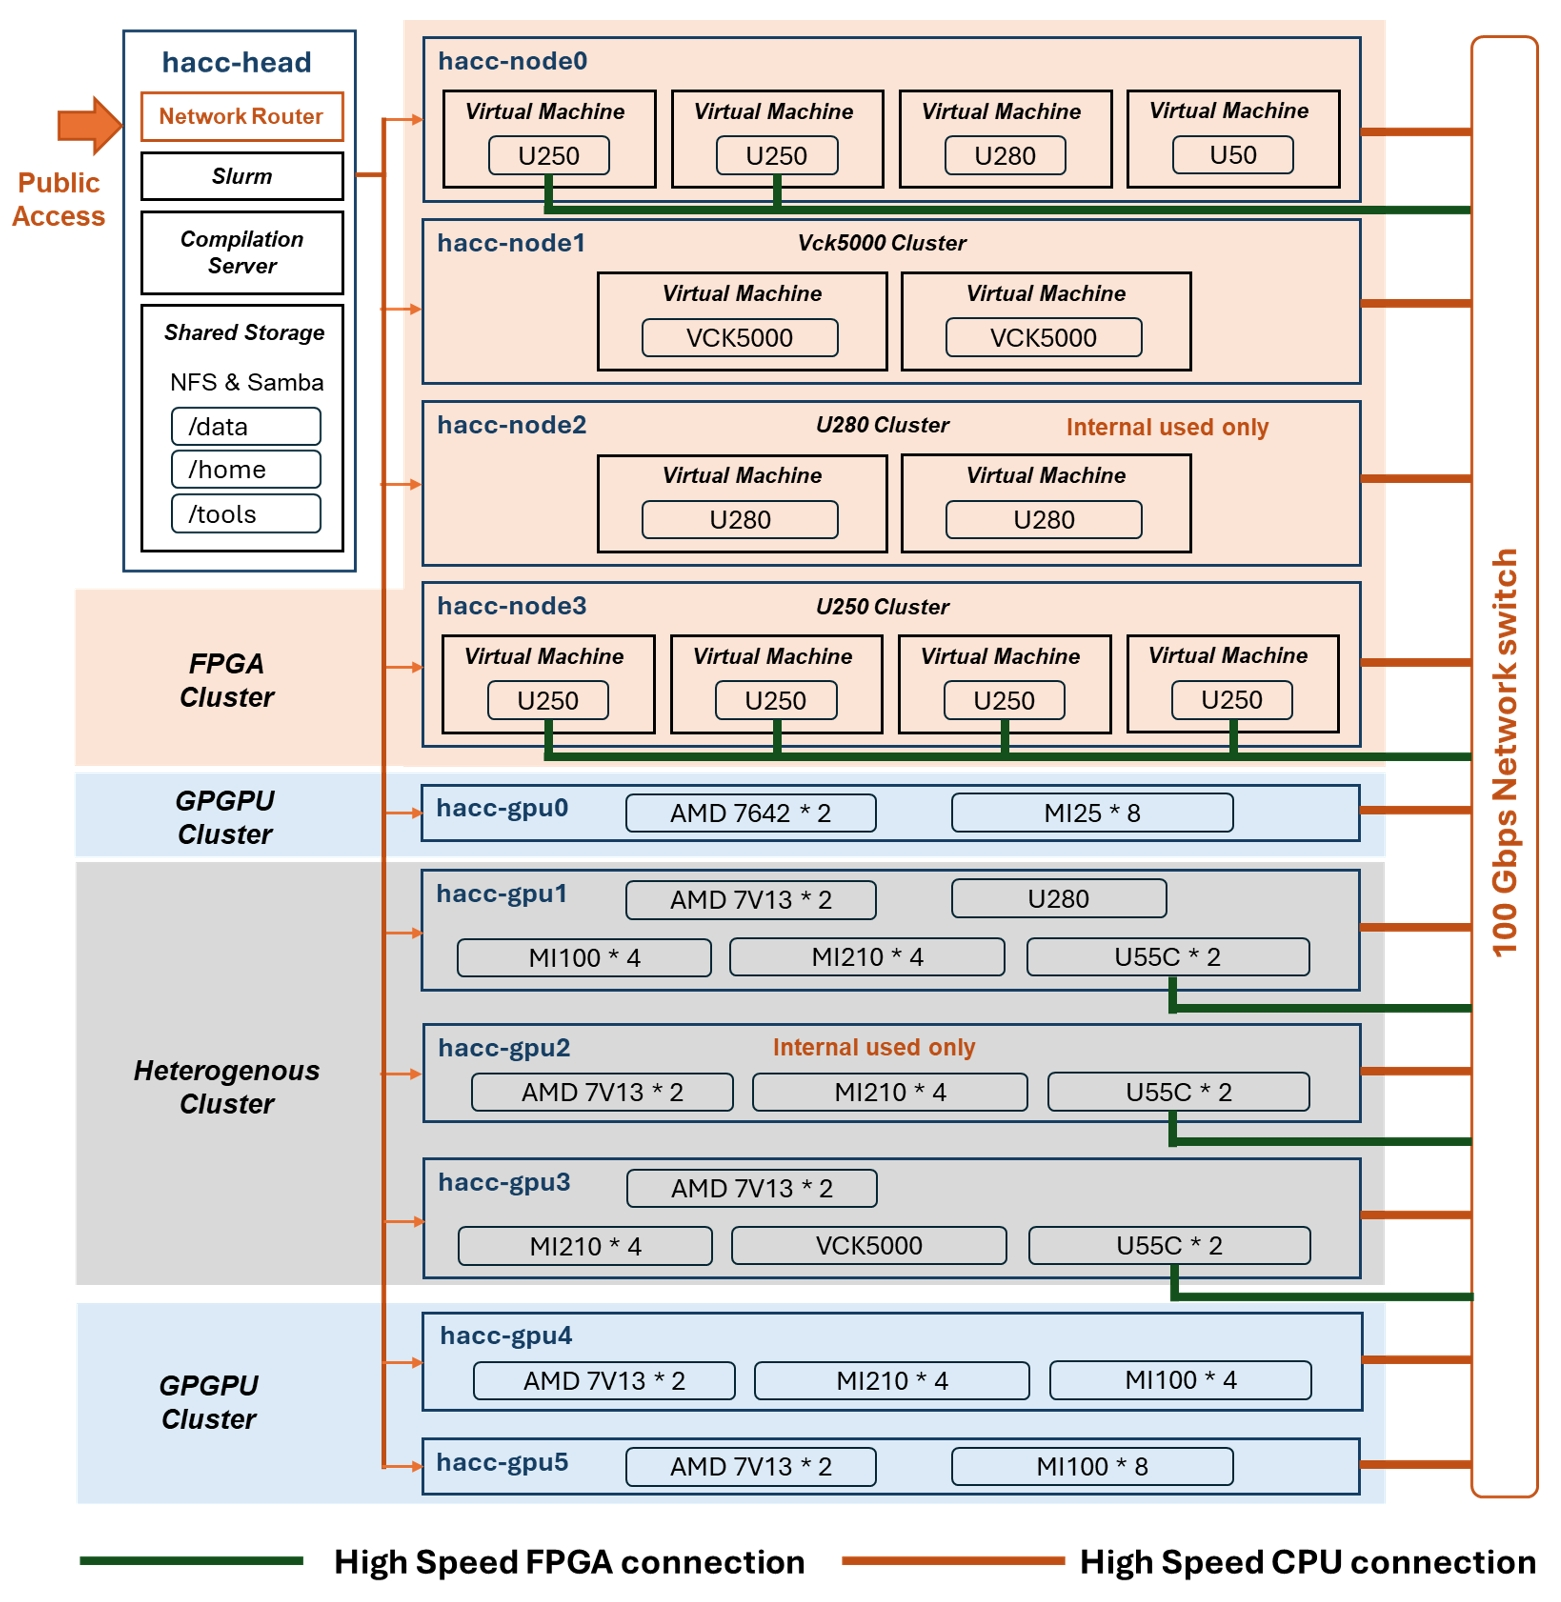
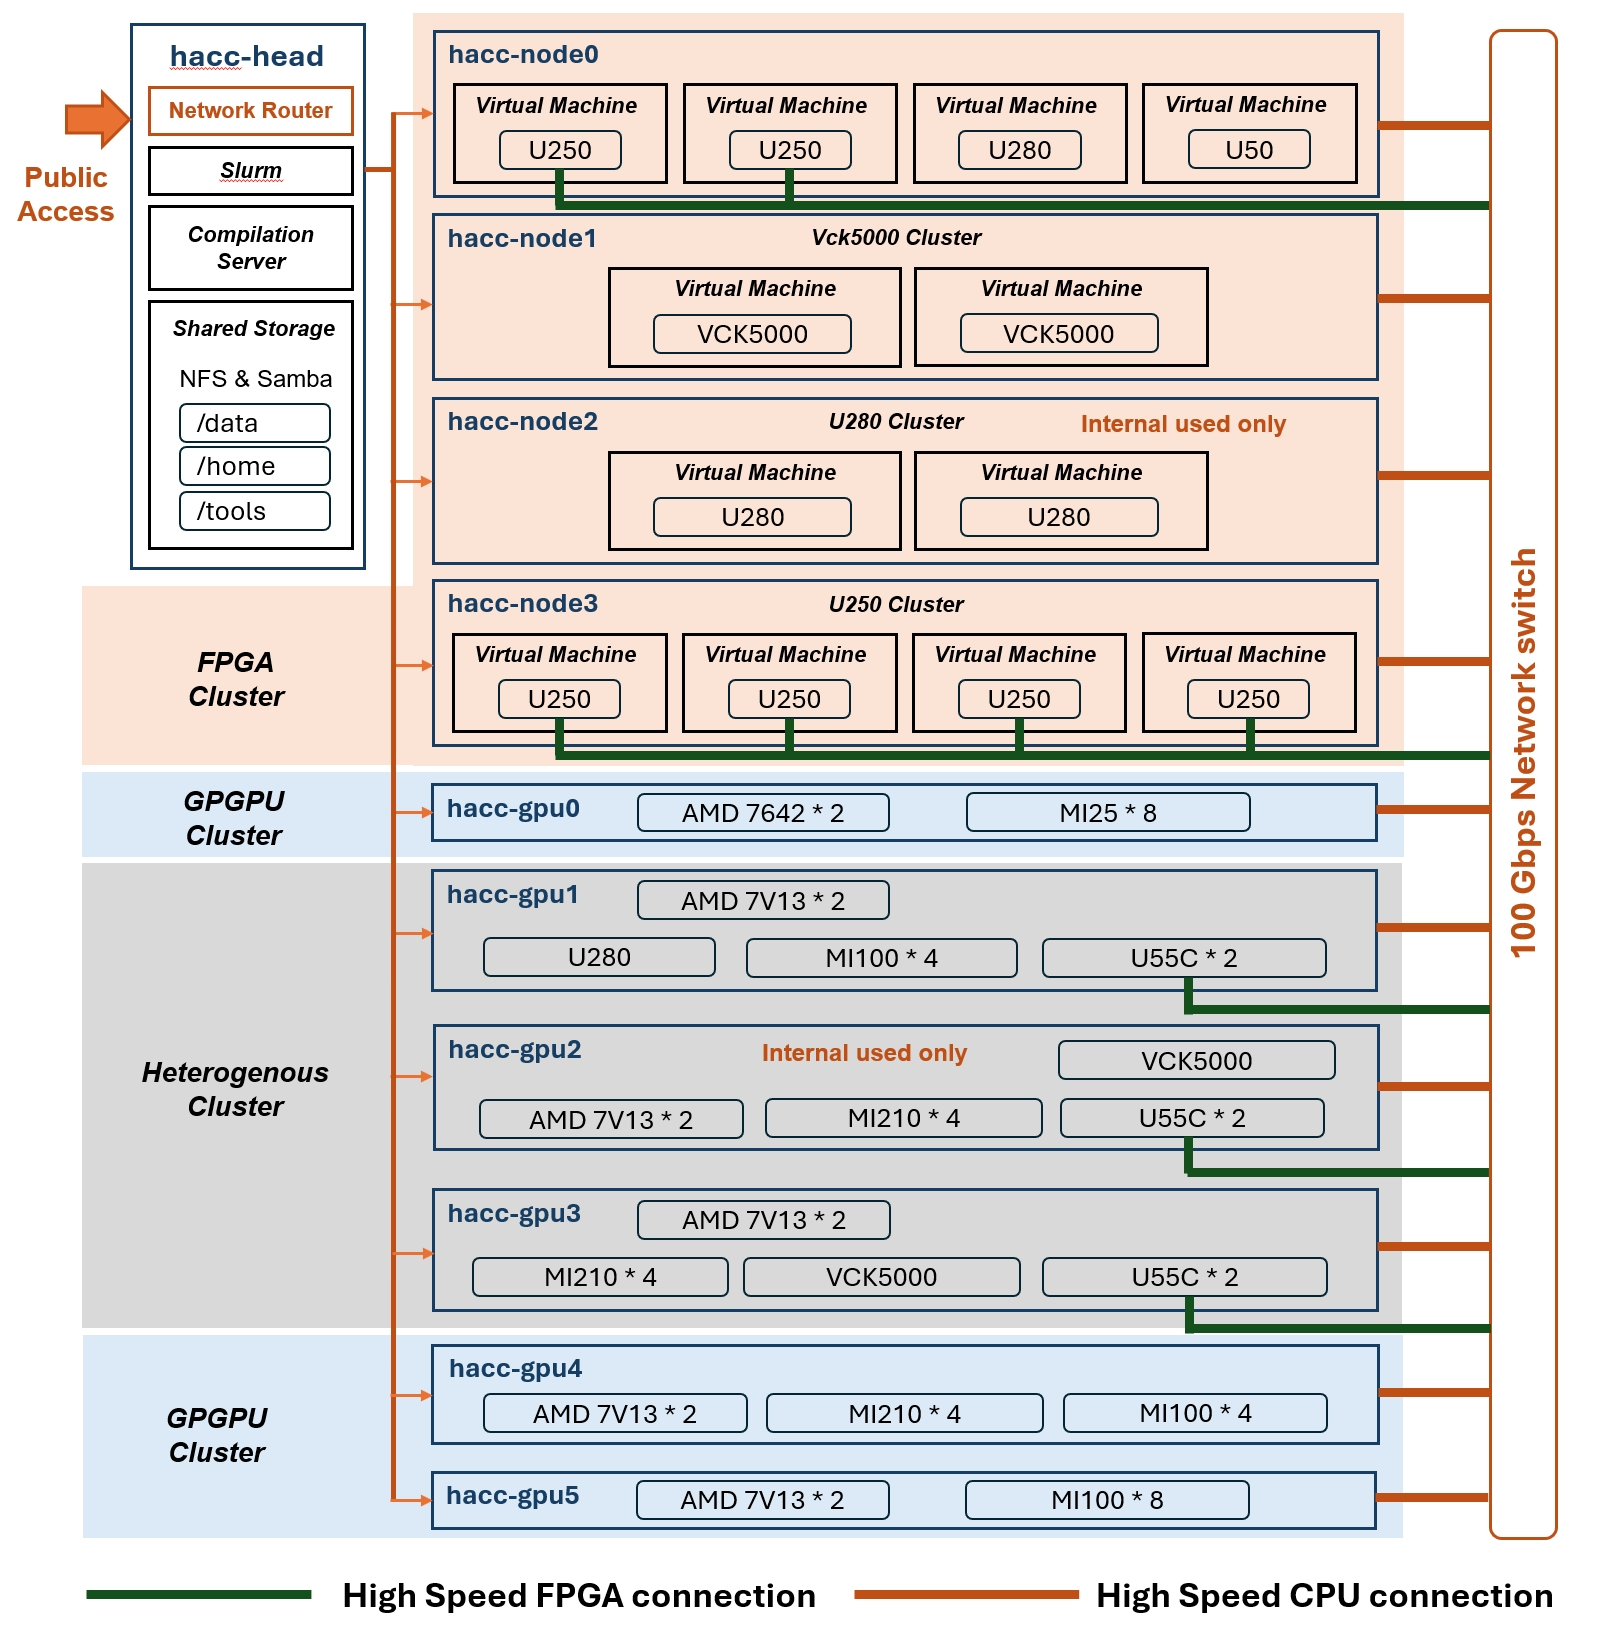
[UPDATE] update the new diagram

Changed region(s): [[0.0, 0.0, 1.0, 0.9988], [0.0922, 0.6554, 0.2152, 0.7179]]

diff --git a/README.md b/README.md
@@ -25,12 +25,28 @@ This repo provides some useful tool scripts and examples to demonstrate how to u
 ## Software Environment
 
 The hardware compilation environment and hardware shell version for different hardware are shown in the table below. 
+| Cluster Name | Node Name | Hardware Setup    | Shell/Arch Version                         | XRT Version | Toolchain Version |
+|-------------------|-------------------|--------------------------------------------|-------------|-------------------|-------------------|
+| VCK5000 Cluster | hacc-node1, hacc-gpu3 | VCK5000 x3 | xilinx_vck5000_gen4x8_qdma_2_202220_1 | 2.14.384   | Vitis 2022.2       |
+| U55C Cluster | hacc-gpu1,2,3 | U55C x6 | xilinx_u55c_gen3x16_xdma_3_202210_1 | 2.14.384   | Vitis 2022.2       |
+| U250 Cluster | hacc-node0,3 | Alveo U250 x6 | xilinx_u250_gen3x16_xdma_3_1_202020_1 | 2.14.354   | Vitis 2021.2       |
+| U280 Cluster | hacc-node0,2, hacc-gpu1 | Alveo U280 x4 | xilinx_u280_xdma_201920_3 | 2.14.354   | Vitis 2021.2       |
+| U50 Cluster  | hacc-node0 | Alveo U50 x1 | xilinx_u50_gen3x16_xdma_201920_3      | 2.14.354   | Vitis 2021.2       |
+| MI25 Cluster  | hacc-gpu0 | MI25 x8    | gfx906                                 | -           | ROCm-5.4.2         |
+| MI100 Cluster | hacc-gpu1 | MI100 x4  | gfx908                                 | -           | ROCm-5.4.2         |
+| MI100 Cluster | hacc-gpu4 | MI100 x4  | gfx908                                 | -           | ROCm-6.3.2         |
+| MI100 Cluster | hacc-gpu5 | MI100 x4  | gfx908                                 | -           | ROCm-6.0.0         |
+| MI210 Cluster | hacc-gpu2,3 | MI210 x4  | gfx90a                                 | -           | ROCm-6.0.0         |
+| MI210 Cluster | hacc-gpu4 | MI210 x4  | gfx90a                                 | -           | ROCm-6.3.2         |
 
 
-|Cluster|  Hardware | Shell/Arch Version | XRT Version | Toolchain Version|
+<!-- |Node Name |  Hardware | Shell/Arch Version | XRT Version | Toolchain Version|
 |-------------------|----------------|--------------------|-------------|-------------------|
-| Heterogeneous Cluster |VCK5000 | xilinx_vck5000_gen4x8_qdma_2_202220_1 | 2.14.384  | Vitis 2022.2 |
-|                  | U55C   | xilinx_u55c_gen3x16_xdma_3_202210_1 | 2.14.384   | Vitis 2022.2 |
+| hacc-gpu2 |VCK5000 | xilinx_vck5000_gen4x8_qdma_2_202220_1 | 2.14.384  | Vitis 2022.2 |
+| hacc-gpu3 |VCK5000 | xilinx_vck5000_gen4x8_qdma_2_202220_1 | 2.14.384  | Vitis 2022.2 |
+| hacc-gpu1 | U55C   | xilinx_u55c_gen3x16_xdma_3_202210_1 | 2.14.384   | Vitis 2022.2 |
+| hacc-gpu2 | U55C   | xilinx_u55c_gen3x16_xdma_3_202210_1 | 2.14.384   | Vitis 2022.2 |
+| hacc-gpu3 | U55C   | xilinx_u55c_gen3x16_xdma_3_202210_1 | 2.14.384   | Vitis 2022.2 |
 |                  | U250 | xilinx_u250_gen3x16_xdma_4_1_202210_1 | 2.14.384   | Vitis 2022.2 |
 |                  |MI210 | gfx90a  | -   | ROCm-5.4.2 |
 | GPU Cluster | MI25    | gfx906  | -  | ROCm-5.4.2 |
@@ -38,13 +54,13 @@ The hardware compilation environment and hardware shell version for different ha
 | U250 Cluster  |  U250     | xilinx_u250_gen3x16_xdma_3_1_202020_1  | 2.14.354   | Vitis 2021.2 |
 | U280 Cluster |  U280    | xilinx_u280_xdma_201920_3  | 2.14.354    | Vitis 2021.2 |
 | VCK5000 Cluster  | VCK5000     | xilinx_vck5000_gen4x8_qdma_2_202220_1     |2.14.384   | Vitis 2022.2 |
-| U50 Single Node |  U50   | xilinx_u50_gen3x16_xdma_201920_3  | 2.14.354    | Vitis 2021.2 |
+| U50 Single Node |  U50   | xilinx_u50_gen3x16_xdma_201920_3  | 2.14.354    | Vitis 2021.2 | -->
 
 ## License
 
 [![License: MIT](https://img.shields.io/badge/License-MIT-yellow.svg)](https://opensource.org/licenses/MIT)
 
-Copyright (c) 2023 Xtra Computing Group, NUS, Singapore.
+Copyright (c) 2025 Xtra Computing Group, NUS, Singapore.
 
 Permission is hereby granted, free of charge, to any person obtaining a copy
 of this software and associated documentation files (the "Software"), to deal
